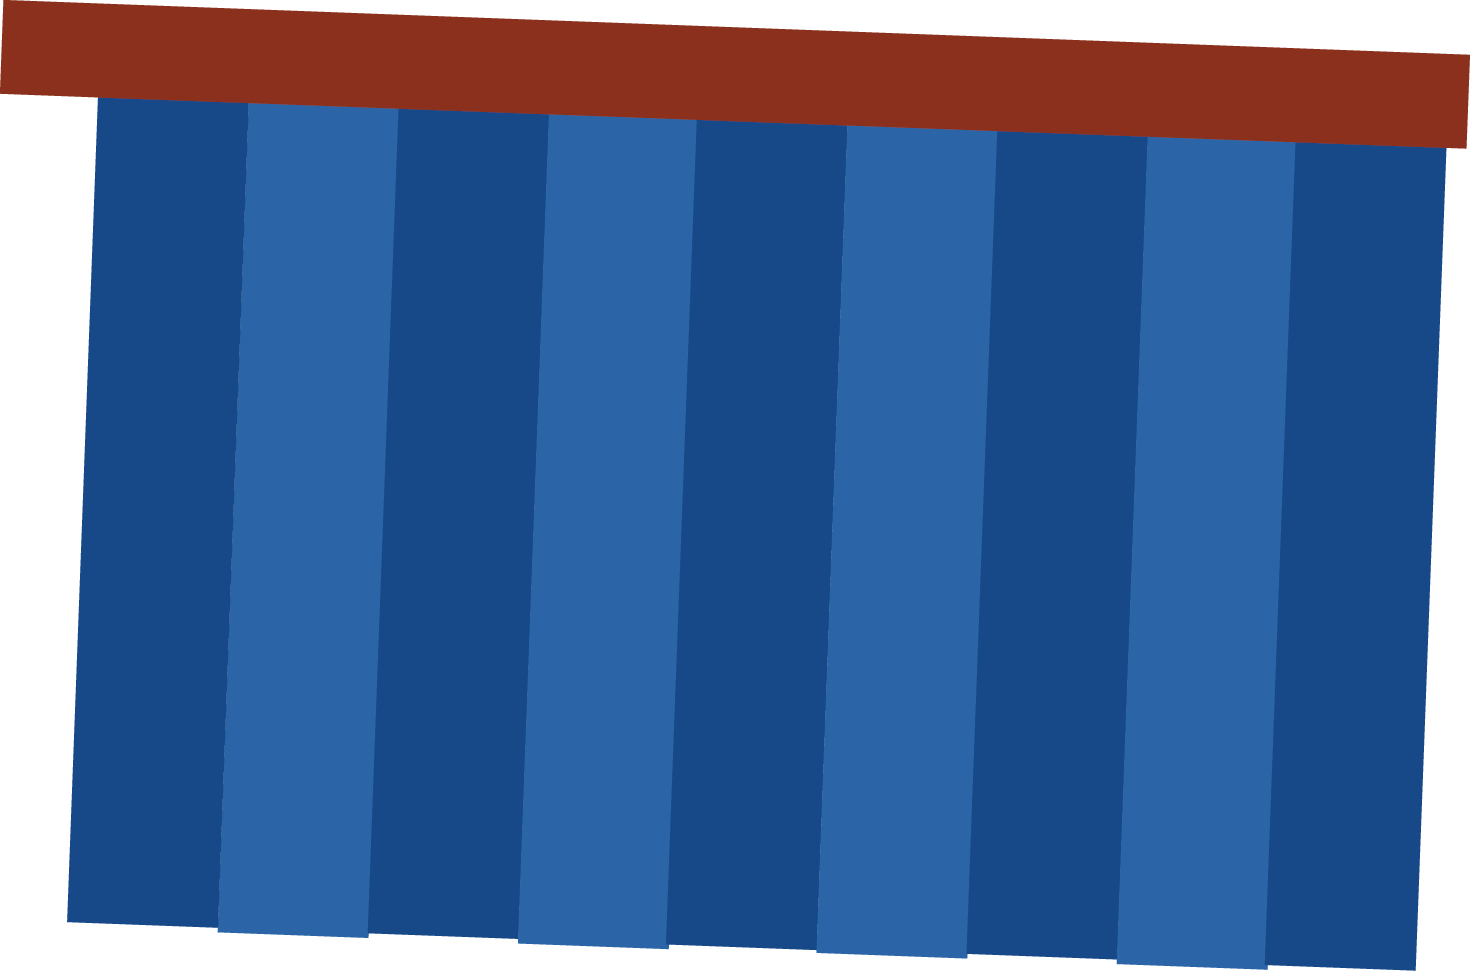
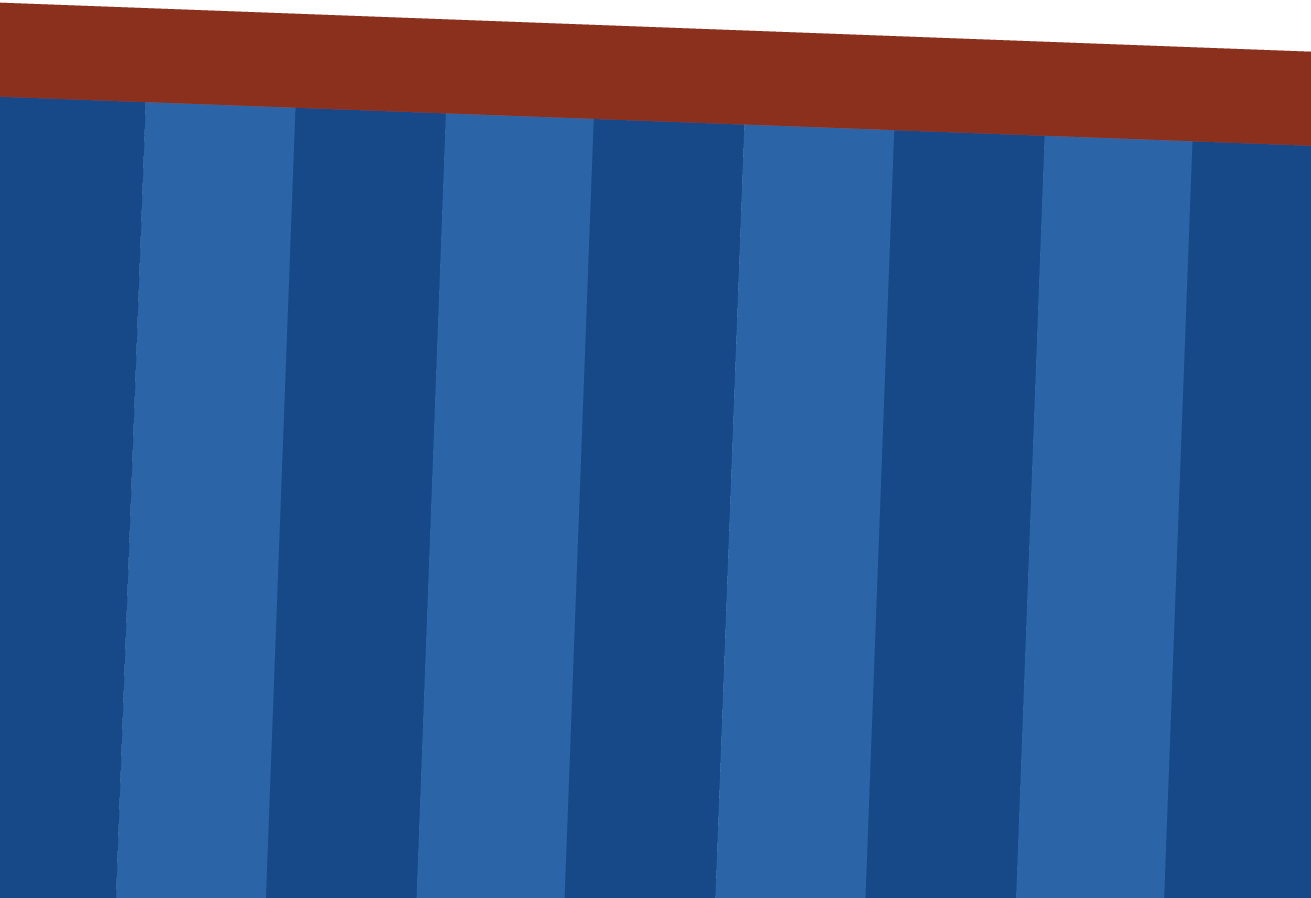
tweaks to language, social share content, clipped bg image

diff --git a/index.html b/index.html
@@ -18,12 +18,8 @@
   <meta property="og:title" content="TrumpCare is Unfair">
   <meta property="og:site_name" content="Unfair TrumpCare">
   <meta property="og:url" content="unfairtrumpcare.com">
-  <meta property="og:image" content="unfairtrumpcare.com/images/logo.png">
+  <meta property="og:image" content="images/PatternSocial.png">
   <meta property="article:published_time" content="2017-06-29">
-
-  <meta name="twitter:card" content="app">
-  <meta name="twitter:site" content="@">
-  <meta name="twitter:description" content="Here are the 10 ways that TrumpCare is unfair">
 
   <!-- Mobile Specific Metas
   –––––––––––––––––––––––––––––––––––––––––––––––––– -->
@@ -59,7 +55,21 @@
     ga('send', 'pageview');
 
   </script>
-
+  <script type="text/javascript" src="//code.jquery.com/jquery-1.11.0.min.js"></script>
+  <script type="text/javascript" src="//code.jquery.com/jquery-migrate-1.2.1.min.js"></script>
+  <script type="text/javascript" src="//cdn.jsdelivr.net/jquery.slick/1.6.0/slick.min.js"></script>
+  <script type="text/javascript">
+    $(document).ready(function(){
+      $('.rotator').slick({
+        autoplay: true,
+        autoplaySpeed: 4000,
+        prevArrow: '',
+        nextArrow: '<div style="text-align:center;margin-top:5%;"><button type="button" class="submit">That Sounds bad. what else?</button></div>',
+        fade: true,
+        cssEase: 'ease-in'
+      });
+    });
+  </script>
 </head>
 <body>
 
@@ -75,7 +85,7 @@
           <a class="source" href="http://www.cbpp.org/blog/new-cbo-estimate-22-million-more-uninsured-under-senate-republican-health-bill">(Center on Budget and Policy Priorities)</a>
       </div>
       <div>
-          <p>Uninsured Rate Would Be Higher under TrumpCare for All Ages and Incomes, 2026</p>
+          <p>Uninsured Rate Would Be Higher under TrumpCare for All Ages and Incomes by 2026</p>
           <a class="source" href="https://www.cbo.gov/publication/52849">(Congressional Budget Office)</a>
       </div>
       <div>
@@ -87,35 +97,35 @@
           <a class="source" href="http://avalere.com/expertise/life-sciences/insights/bcra-to-reduce-federal-medicaid-funding-to-states">(Avalere)</a>
       </div>
       <div>
-          <p>Over 200,000 Could Die From Becoming Uninsured under TrumpCare, 2018–2026</p>
+          <p>Over 200,000 Could Die From Becoming Uninsured under TrumpCare</p>
           <a class="source" href="https://www.vox.com/the-big-idea/2017/6/28/15881720/deaths-senate-health-care-bcra">(Vox)</a>
       </div>
       <div>
-          <p>People Would Pay 74 Percent More for the Same Marketplace Plan Under TrumpCare, 2020</p>
+          <p>People Would Pay 74 Percent More for the Same Marketplace Plan Under TrumpCareb by 2020</p>
           <a class="source" href="http://www.kff.org/slideshow/aca-replacement-plans-and-the-individual-market/">(Kaiser Family Foundation)</a>
       </div>
       <div>
-          <p>Comparing Apples-to-Apples, Premiums Would Rise by 9 Percent in 2026 under TrumpCare, 2026</p>
+          <p>Comparing Apples-to-Apples, Premiums Would Rise by 9 Percent in 2026 under TrumpCare</p>
           <a class="source" href="https://www.brookings.edu/blog/up-front/2017/06/28/how-would-the-senates-health-care-bill-affect-individual-market-premiums/">(Brookings Institution)</a>
       </div>
       <div>
-          <p>Out-of-Pocket Costs for Older Americans Would Be At Least $5,000 More under TrumpCare, 2026</p>
+          <p>Out-of-Pocket Costs for Older Americans Would Be At Least $5,000 More under TrumpCare by 2026</p>
           <a class="source" href="http://www.cbpp.org/blog/cbo-senate-bill-would-raise-premiums-deductibles-or-both-for-most-marketplace-consumers">(Center on Budget and Policy Priorities)</a>
       </div>
       <div>
-          <p>Under TrumpCare, Deductibles Would Rise by about $2,500-—More for Low-Income Marketplace Enrollees, 2017</p>
+          <p>Under TrumpCare, Deductibles Would Rise by about $2,500, and Even More for Low-Income Marketplace Enrollees</p>
           <a class="source" href="http://www.kff.org/slideshow/aca-replacement-plans-and-the-individual-market/">(Kaiser Family Foundation)</a>
       </div>
       <div>
-          <p>TrumpCare Would Cut Health Care Programs to Pay for $563 BIllion in Tax Breaks for Corporations and the Wealthy, 2018–2026</p>
+          <p>TrumpCare Would Cut Health Care Programs to Pay for $563 BIllion in Tax Breaks for Corporations and the Wealthy</p>
           <a class="source" href="http://www.cbpp.org/social-media-graphics-on-senate-republican-aca-repeal-bill">(Center on Budget and Policy Priorities)</a>
       </div>
     </div>
     <div class="container" style="width: 200px;margin: 1% auto;">
       <span style="float:left;margin-right:4%;" class="source">Share the Facts</span>
       <div style="float:left" class="ssk-group">
-        <a target="_blank" href="https://www.facebook.com/dialog/feed?app_id=184683071273&link=http%3A%2F%2Funfairtrumpcare.com&picture=http%3A%2F%2Fwww.insert-image-share-url-here.jpg&name=Unfair%20TrumpCare&caption=%20&description=Here%20are%2010%20facts%20from%20analyses%20conducted%20by%20policy%20experts%20that%20illustrate%20the%20impact%20of%20the%20Senate%20AHCA%20bill%20on%20health%20care%20in%20America.&redirect_uri=http%3A%2F%2Fwww.facebook.com%2F" class="ssk ssk-icon ssk-facebook"></a>
-        <a target="_blank" href="https://twitter.com/intent/tweet?url=http%3A%2F%2Funfairtrumpcare.com&text=TrumpCare%20is%20Unfair.%20Here%20are%2010%20reasons%20why.&hashtags=TrumpCare%2CAHCA%2CBCRA" class="ssk ssk-icon ssk-twitter ssk-grayscale"></a>
+        <a target="_blank" href="https://www.facebook.com/dialog/feed?app_id=184683071273&link=http%3A%2F%2Funfairtrumpcare.com&picture=http%3A%2F%2Funfairtrumpcare.com%2Fimages%2FPatternSocial.png&name=Unfair%20TrumpCare&caption=%20&description=Here%20are%20the%20facts%20on%20why%20TrumpCare%20is%20unfair,%20direct%20from%20the%20nation's%20leading%20experts.&redirect_uri=http%3A%2F%2Fwww.facebook.com%2F" class="ssk ssk-icon ssk-facebook"></a>
+        <a target="_blank" href="https://twitter.com/intent/tweet?url=http%3A%2F%2FUnfairTrumpCare.com&text=Here%20are%20the%20facts%20on%20why%20TrumpCare%20is%20unfair%2C%20direct%20from%20the%20nation%27s%20leading%20experts&hashtags=TrumpCare" class="ssk ssk-icon ssk-twitter"></a>
       </div>
     </div>
     <div class="vertical">
@@ -127,20 +137,5 @@
 <!-- End Document
   –––––––––––––––––––––––––––––––––––––––––––––––––– -->
 
-  <script type="text/javascript" src="//code.jquery.com/jquery-1.11.0.min.js"></script>
-  <script type="text/javascript" src="//code.jquery.com/jquery-migrate-1.2.1.min.js"></script>
-  <script type="text/javascript" src="//cdn.jsdelivr.net/jquery.slick/1.6.0/slick.min.js"></script>
-  <script type="text/javascript">
-    $(document).ready(function(){
-      $('.rotator').slick({
-        autoplay: true,
-        autoplaySpeed: 4000,
-        prevArrow: '',
-        nextArrow: '<div style="text-align:center;margin-top:5%;"><button type="button" class="submit">That Sounds bad! what else?</button></div>',
-        fade: true,
-        cssEase: 'ease-in'
-      });
-    });
-  </script>
 </body>
 </html>
